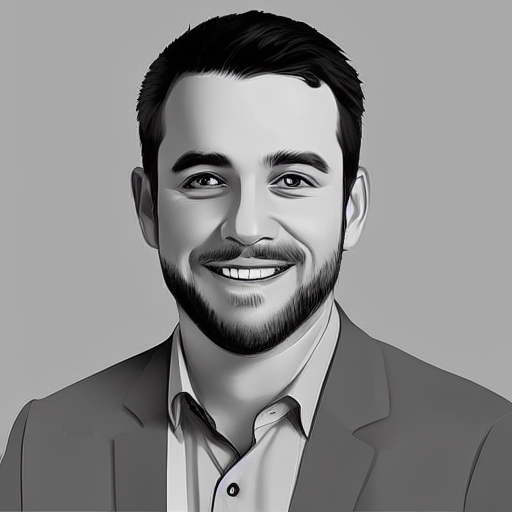
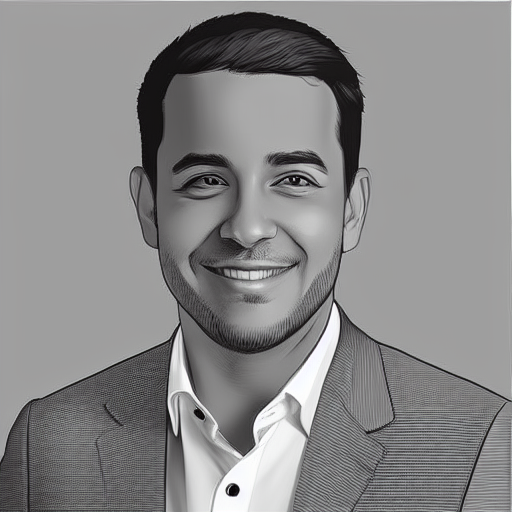
Add README.md with project overview, features, and setup instructions

diff --git a/README.md b/README.md
@@ -1,0 +1,180 @@
+# InSoBlok AI Avatar Generator
+
+This project provides a complete solution for building and deploying an AI model that transforms user photos into minimalist, InSoBlok-style avatars. It uses Stable Diffusion with ControlNet to preserve the user's pose and facial structure while completely changing the artistic style based on a text prompt.
+
+The entire application is designed to be tested locally and then deployed as a scalable, production-ready API endpoint on AWS SageMaker.
+
+## ✨ Features
+
+*   **Pose Preservation:** Uses ControlNet with Canny Edges to ensure the generated avatar matches the composition of the input image.
+*   **Customizable Style:** The artistic style is controlled by a simple text prompt, making it easy to tweak.
+*   **Local API:** Includes a FastAPI server for easy local development and testing.
+*   **Scalable Cloud Deployment:** Packaged with Docker and designed for deployment on AWS SageMaker for a robust, scalable inference endpoint.
+
+## 🖼 Example
+
+The model takes a regular photo and converts it into a clean, black-and-white vector-style avatar, perfect for professional profiles.
+
+| Original User Photo                                       | Generated Avatar                                                |
+| :--------------------------------------------------------: | :--------------------------------------------------------------: |
+| <img src="/user_image.png" width="300">                | <img src="insoblok_ai_avatar.png" width="300">                   |
+| *Input: A standard user photograph.*                       | *Output: A minimalist avatar in the requested style.*           |
+<!-- Note: You should create a 'docs' folder and place example images there for this to render correctly on GitHub -->
+
+
+## ⚙ Technology Stack
+
+*   **AI Model:** Stable Diffusion 1.5 + ControlNet (Canny Edge)
+*   **Python Libraries:** Hugging Face `diffusers`, `transformers`, `torch`
+*   **API Framework:** FastAPI
+*   **Containerization:** Docker
+*   **Cloud Platform:** AWS (SageMaker for hosting, ECR for container registry)
+
+---
+
+## 🚀 Getting Started
+
+Follow these steps to get the project running locally and then deploy it to the cloud.
+
+### Prerequisites
+
+*   Python 3.8+
+*   An **NVIDIA GPU** with at least 8GB VRAM (required for reasonable performance)
+*   [NVIDIA CUDA Toolkit](https://developer.nvidia.com/cuda-toolkit-archive) installed
+*   [Docker](https://www.docker.com/get-started/)
+*   [AWS CLI](https://aws.amazon.com/cli/) installed and [configured](https://docs.aws.amazon.com/cli/latest/userguide/cli-configure-quickstart.html)
+
+### Phase 1: Local Development & Testing
+
+First, let's get the model running on your local machine.
+
+**1. Clone the repository and set up the environment:**
+```bash
+git clone https://github.com/your-username/notion-avatar-generator.git
+cd notion-avatar-generator
+python -m venv venv
+source venv/bin/activate  # On Windows: venv\Scripts\activate
+```
+
+**2. Install dependencies:**
+```bash
+pip install -r requirements.txt
+```
+*Note: The first time you run the scripts, they will download several gigabytes of model weights from Hugging Face.*
+
+**3. Run a single image generation test:**
+```bash
+python generate.py
+```
+Place a test image (e.g., `user_image.jpg`) in the root directory. Then, update the path in `generate.py` and run it:
+```bash
+python generate.py
+```
+This will create `notion_avatar.png` in your project folder.
+
+**4. Run the local API server:**
+```bash
+uvicorn main:app --reload
+```
+Navigate to **`http://127.0.0.1:8000/docs`** in your browser to access the interactive API documentation (Swagger UI) where you can upload an image and test the API endpoint.
+
+---
+
+### Phase 2: Cloud Deployment on AWS SageMaker
+
+Now, we'll package the application and deploy it to a scalable AWS endpoint.
+
+**1. Build and Push the Docker Container to ECR:**
+First, create a repository in Amazon ECR. Replace `us-east-1` with your preferred region.
+```bash
+aws ecr create-repository --repository-name insoblok-avatar-generator --region us-east-1
+```
+
+Next, build the Docker image and push it. **Replace `123456789012` with your AWS Account ID.**
+```bash
+# Authenticate Docker with ECR
+aws ecr get-login-password --region us-east-1 | docker login --username AWS --password-stdin 123456789012.dkr.ecr.us-east-1.amazonaws.com
+
+# Build the Docker image
+docker build -t insoblok-avatar-generator .
+
+# Tag the image for ECR
+docker tag insoblok-avatar-generator:latest 123456789012.dkr.ecr.us-east-1.amazonaws.com/insoblok-avatar-generator:latest
+
+# Push the image
+docker push 123456789012.dkr.ecr.us-east-1.amazonaws.com/insoblok-avatar-generator:latest
+```
+
+**2. Deploy to a SageMaker Endpoint:**
+Before running the script, you need to:
+*   Create an IAM Role with `AmazonSageMakerFullAccess` permissions.
+*   Update `deploy.py` with your **IAM Role ARN** and your **ECR Image URI**.
+
+Then, run the deployment script:
+```bash
+pip install sagemaker boto3
+python deploy.py
+```
+This process will take **10-15 minutes** as AWS provisions the infrastructure.
+
+---
+
+## 🔌 API Usage
+
+### Calling the Deployed SageMaker Endpoint
+
+You can use the `boto3` SDK in Python to invoke your live endpoint. The `client.py` script provides a working example.
+
+Update `client.py` with your `ENDPOINT_NAME` and `REGION_NAME`, then run:
+```python
+import boto3
+
+# Configuration
+ENDPOINT_NAME = 'insoblok-avatar-generator-endpoint' # As defined in deploy.py
+REGION_NAME = 'us-east-1' # Your AWS region
+
+sagemaker_runtime = boto3.client("sagemaker-runtime", region_name=REGION_NAME)
+
+# Send an image file to the endpoint
+with open("path/to/your/user_image.jpg", "rb") as f:
+    image_payload = f.read()
+
+response = sagemaker_runtime.invoke_endpoint(
+    EndpointName=ENDPOINT_NAME,
+    ContentType='image/jpeg',
+    Body=image_payload
+)
+
+# Save the returned avatar
+generated_image_bytes = response['Body'].read()
+with open('cloud_generated_avatar.png', 'wb') as f:
+    f.write(generated_image_bytes)
+
+print("Avatar saved successfully!")
+```
+
+## ⚠ Important Considerations
+
+### AWS Costs
+
+GPU instances for SageMaker are billed by the hour and can be expensive. **Always remember to shut down your endpoint when not in use to avoid unnecessary costs.**
+
+Use the AWS CLI to delete the endpoint:
+```bash
+aws sagemaker delete-endpoint --endpoint-name insoblok-avatar-generator-endpoint --region us-east-1
+```
+You should also delete the model and endpoint configuration from the SageMaker console.
+
+### Cold Starts
+
+The first request to an idle endpoint may take longer (1-2 minutes) as the container and model are loaded into memory. For production applications requiring low latency, consider enabling [SageMaker Provisioned Concurrency](https://docs.aws.amazon.com/sagemaker/latest/dg/provisioned-concurrency.html).
+
+## 🔮 Future Improvements
+
+*   **Fine-tuning with LoRA:** For a more consistent and unique style, the base model can be fine-tuned using LoRA (Low-Rank Adaptation) on a small dataset of example avatars.
+*   **API Gateway Integration:** Place an Amazon API Gateway in front of the SageMaker endpoint to handle authentication (API keys), rate limiting, and caching.
+*   **Web Frontend:** Build a simple web interface (e.g., using Streamlit or React) to allow users to easily upload their photos.
+
+## 📄 License
+
+This project is licensed under the MIT License. See the [LICENSE](LICENSE) file for details.
